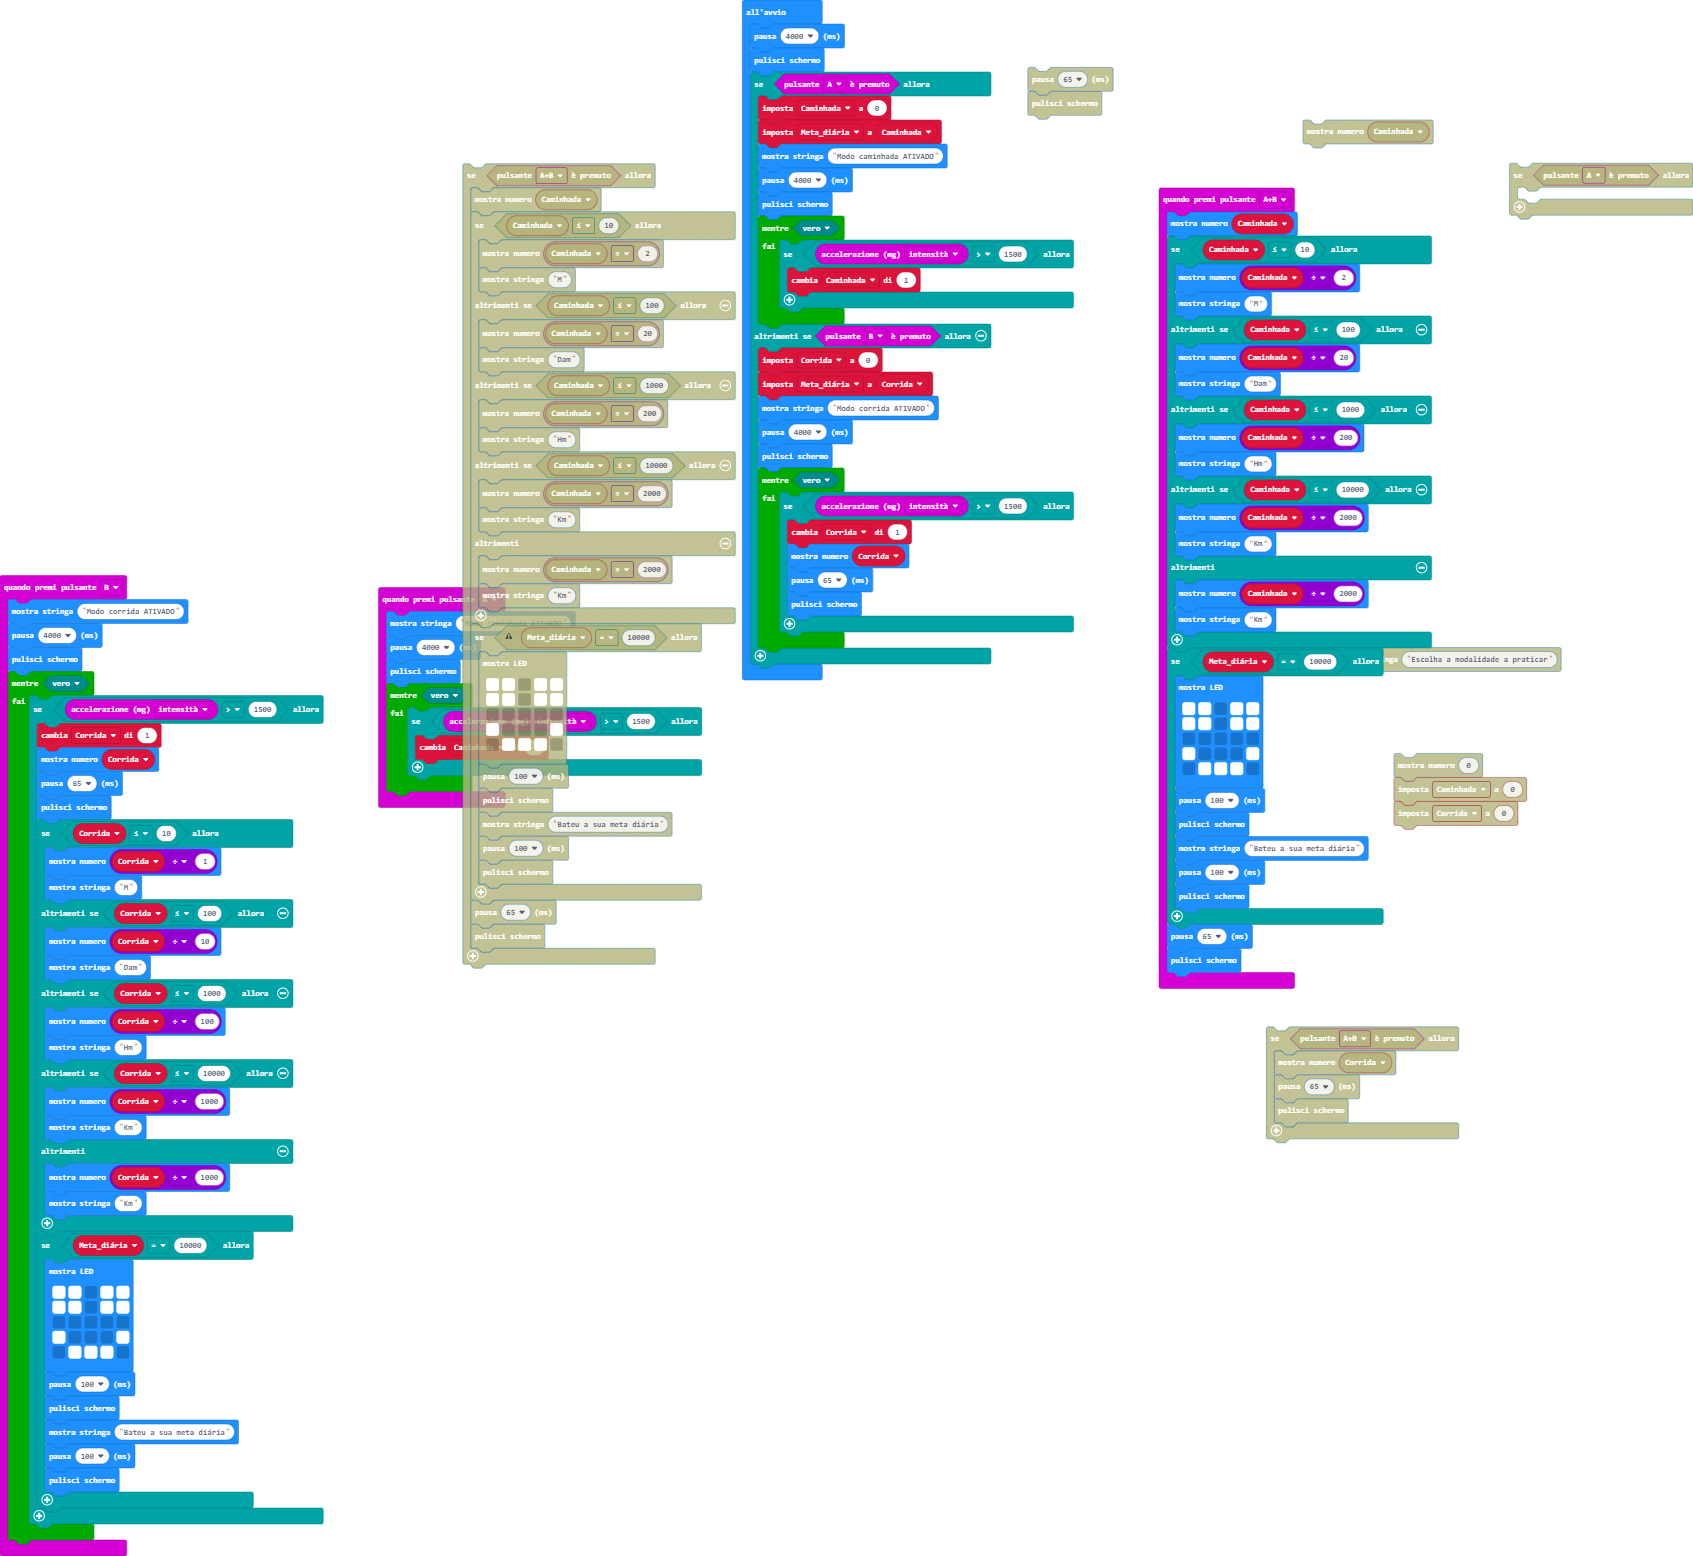
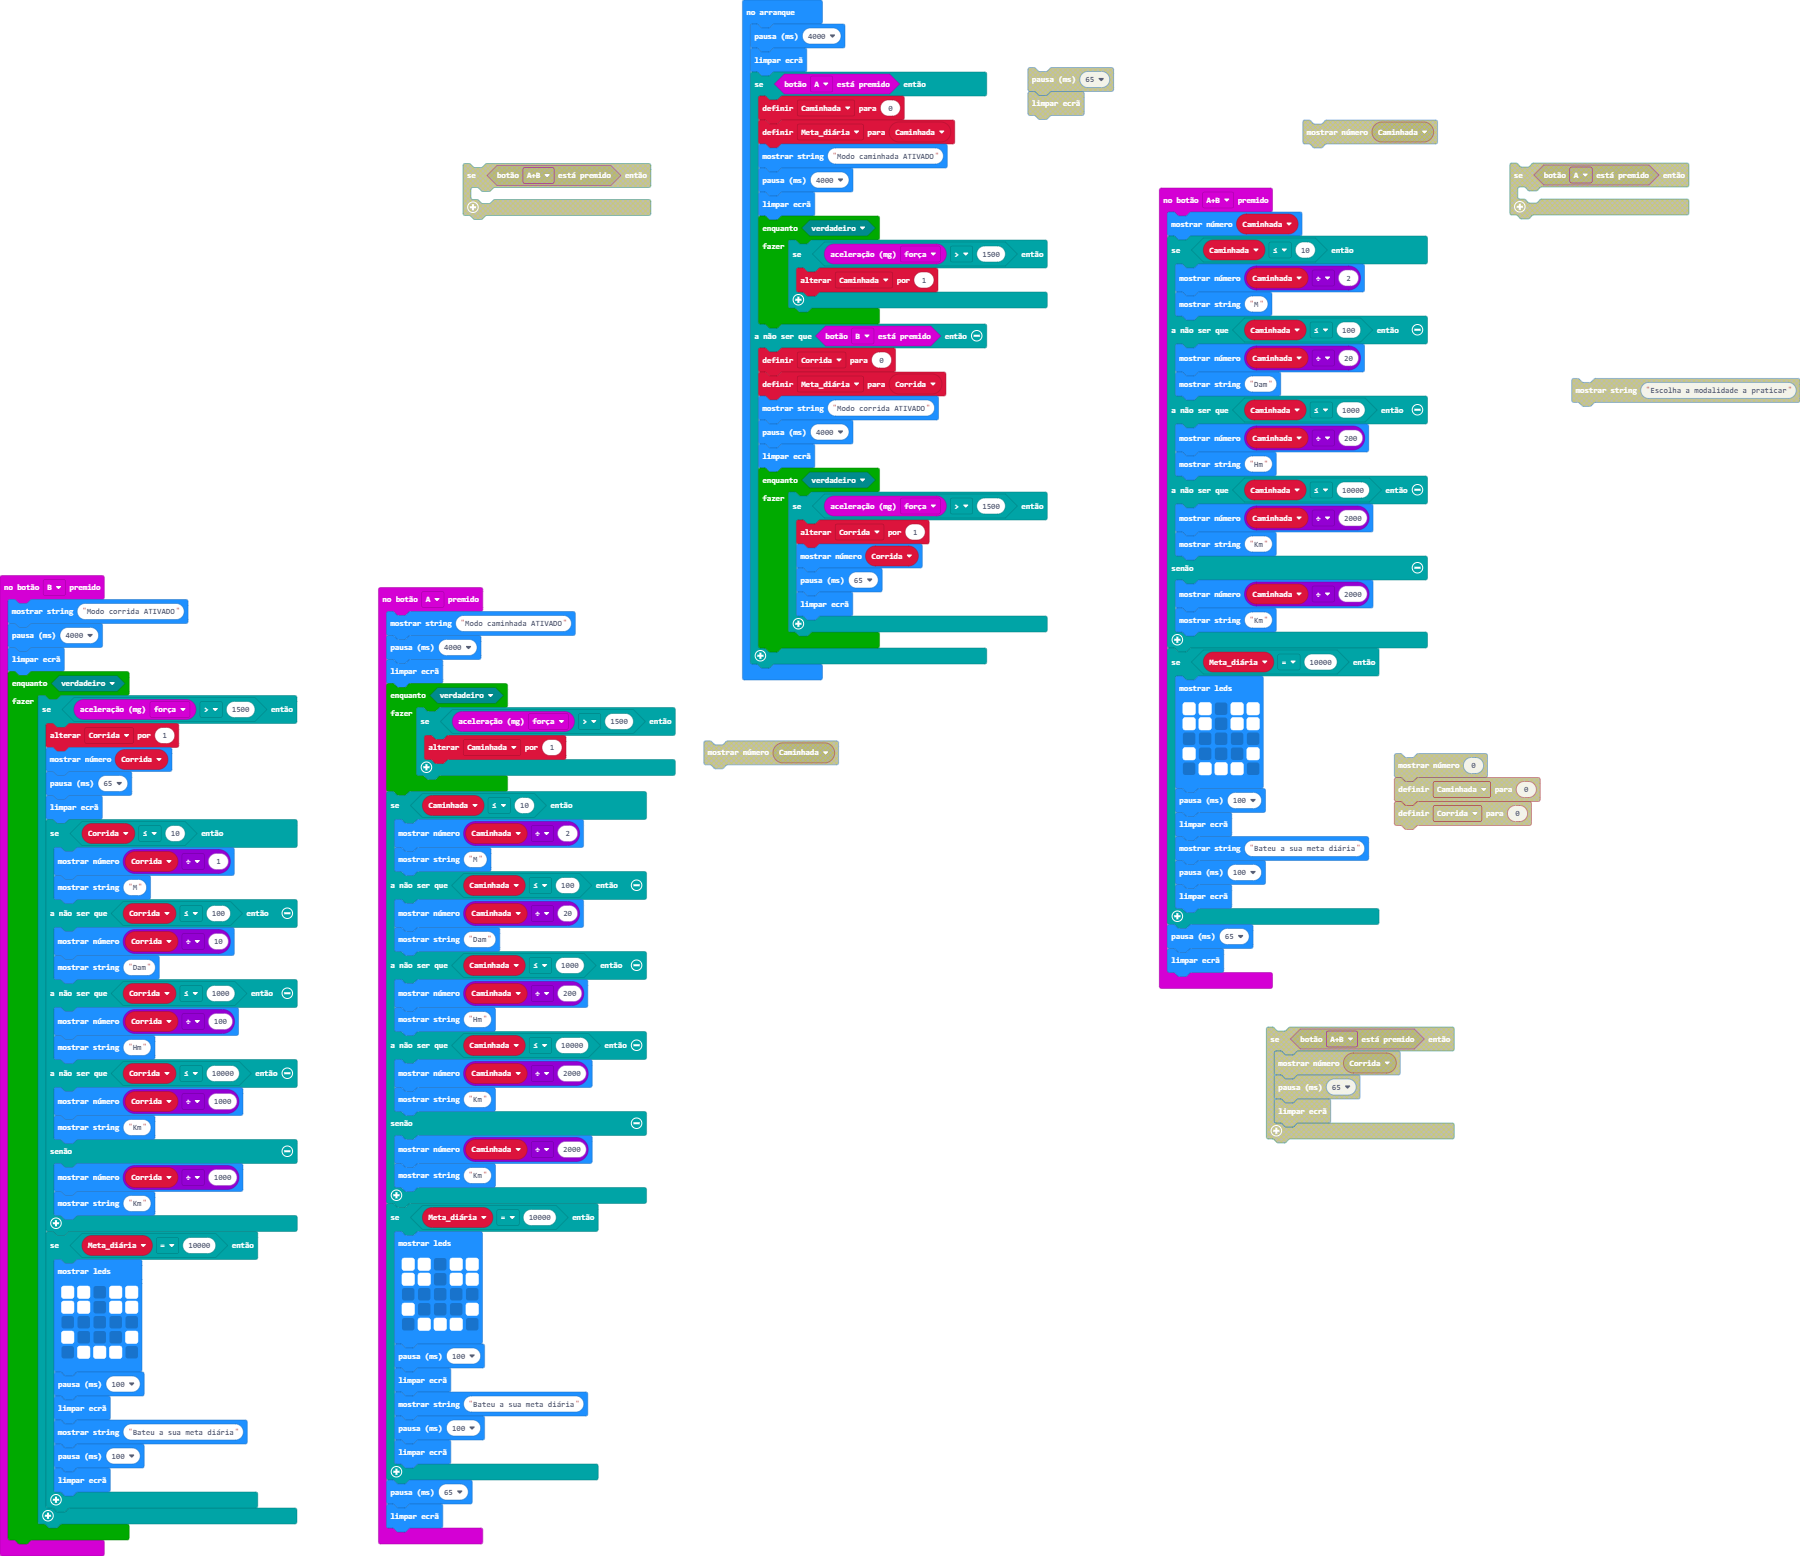
Update main.blocks, main.ts

Changed region(s): [[0.0, 0.0, 1.0, 1.0], [0.7679, 0.5861, 0.8293, 0.617], [0.1229, 0.8946, 0.1536, 0.9254]]

diff --git a/main.ts b/main.ts
@@ -7,6 +7,38 @@ input.onButtonPressed(Button.A, function () {
             Caminhada += 1
         }
     }
+    if (Caminhada <= 10) {
+        basic.showNumber(Caminhada / 2)
+        basic.showString("M")
+    } else if (Caminhada <= 100) {
+        basic.showNumber(Caminhada / 20)
+        basic.showString("Dam")
+    } else if (Caminhada <= 1000) {
+        basic.showNumber(Caminhada / 200)
+        basic.showString("Hm")
+    } else if (Caminhada <= 10000) {
+        basic.showNumber(Caminhada / 2000)
+        basic.showString("Km")
+    } else {
+        basic.showNumber(Caminhada / 2000)
+        basic.showString("Km")
+    }
+    if (Meta_diária == 10000) {
+        basic.showLeds(`
+            # # . # #
+            # # . # #
+            . . . . .
+            # . . . #
+            . # # # .
+            `)
+        basic.pause(100)
+        basic.clearScreen()
+        basic.showString("Bateu a sua meta diária")
+        basic.pause(100)
+        basic.clearScreen()
+    }
+    basic.pause(65)
+    basic.clearScreen()
 })
 input.onButtonPressed(Button.AB, function () {
     basic.showNumber(Caminhada)
